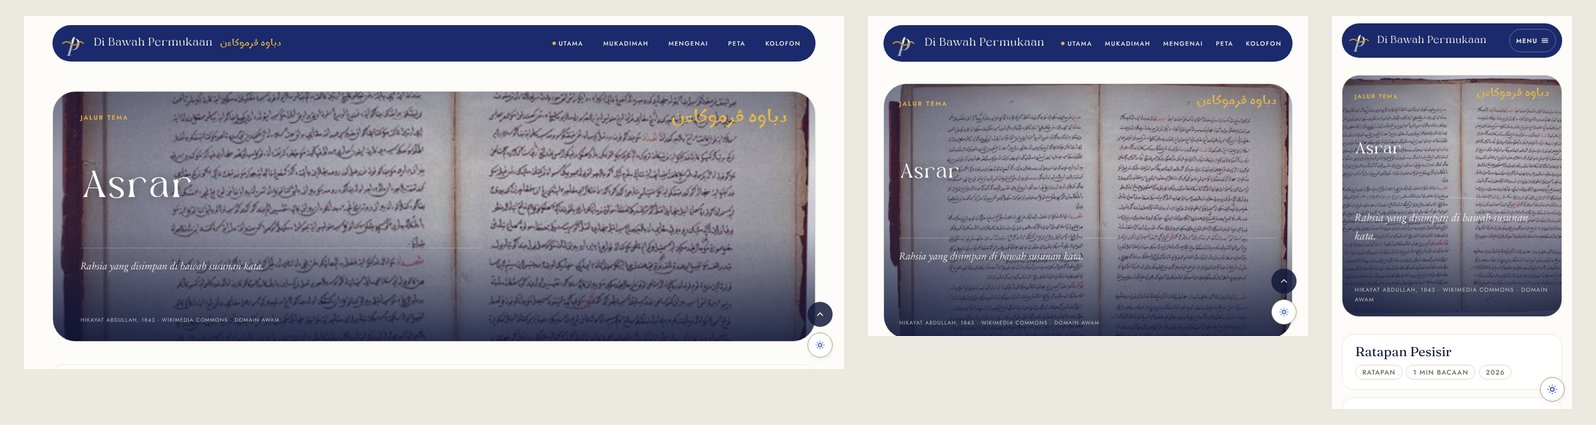
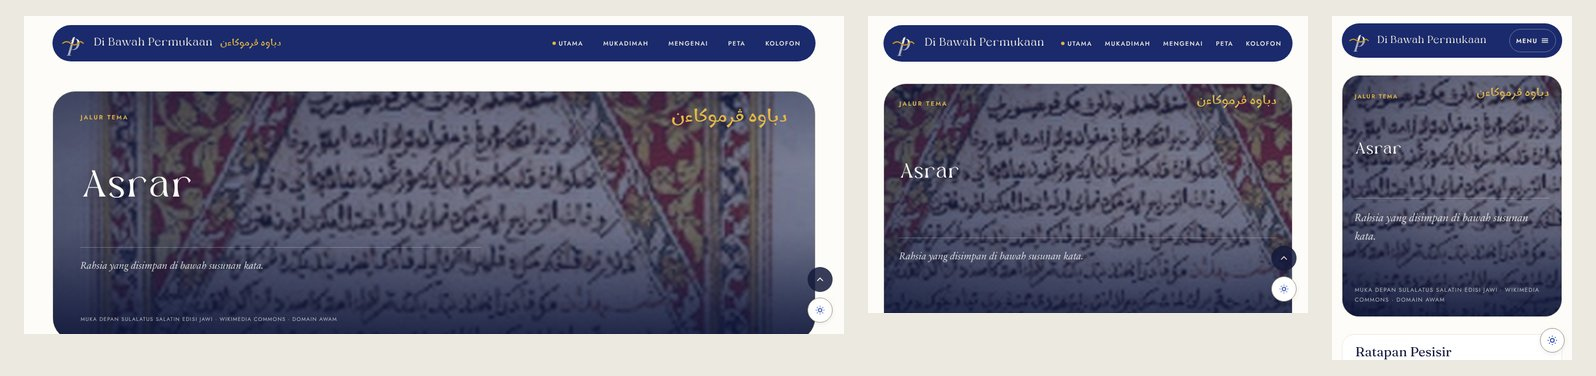
Covers: first five Commons plates for strand and form archives
Hikayat and Terjemahan forms; Ceritera, Ketuhanan and Wangsa strands. Public domain or CC0 sources from Wikimedia Commons, cropped, softened and toned; credits in assets/img/covers/CREDITS.txt and linked from each title page.

Claude-Session: https://claude.ai/code/session_01Er8Hpy67qX5wHknT6MnoT1

diff --git a/assets/img/covers/plates.php b/assets/img/covers/plates.php
@@ -1,10 +1,18 @@
 <?php
 /**
  * Bundled cover plates for strand and form archives.
- * Keyed by taxonomy, then term slug. Files live in this folder; sources and
- * licences are listed in CREDITS.txt. Filter `book_wp_cover_plates` to extend.
+ * Keyed by taxonomy, then term slug. Files live in this folder, each with an
+ * 800px "-sm" companion; sources and licences are in CREDITS.txt.
+ * Filter `book_wp_cover_plates` to extend or replace entries.
  */
 return array(
-    'literary_form' => array(),
-    'category'      => array(),
+    'literary_form' => array(
+        'hikayat'    => array( 'file' => 'form-hikayat.jpg',    'credit' => 'Hikayat Merong Mahawangsa, naskhah Wilkinson 1898 · Wikimedia Commons · domain awam', 'url' => 'https://commons.wikimedia.org/wiki/File:Hkyt_merong_mahawgsa.jpg' ),
+        'terjemahan' => array( 'file' => 'form-terjemahan.jpg', 'credit' => 'Edgar Allan Poe, daguerreotype c. 1849 · Wikimedia Commons · domain awam', 'url' => 'https://commons.wikimedia.org/wiki/File:Edgar_Allan_Poe,_circa_1849,_restored,_squared_off.jpg' ),
+    ),
+    'category' => array(
+        'ceritera'  => array( 'file' => 'jalur-ceritera.jpg',  'credit' => 'Naskhah Hikayat Hang Tuah · Wikimedia Commons · CC0', 'url' => 'https://commons.wikimedia.org/wiki/File:YosriHikayatHangTuah.jpg' ),
+        'ketuhanan' => array( 'file' => 'jalur-ketuhanan.jpg', 'credit' => 'Masjid Kampung Laut, Kelantan · Wikimedia Commons · CC0', 'url' => 'https://commons.wikimedia.org/wiki/File:Masjid_Kampung_Laut,_Nilampuri,_Kelantan,_Malaysia.jpg' ),
+        'wangsa'    => array( 'file' => 'jalur-wangsa.jpg',    'credit' => 'Muka depan Sulalatus Salatin edisi Jawi · Wikimedia Commons · domain awam', 'url' => 'https://commons.wikimedia.org/wiki/File:Frontispiece_of_a_Jawi_edition_of_the_Malay_Annals.jpg' ),
+    ),
 );
